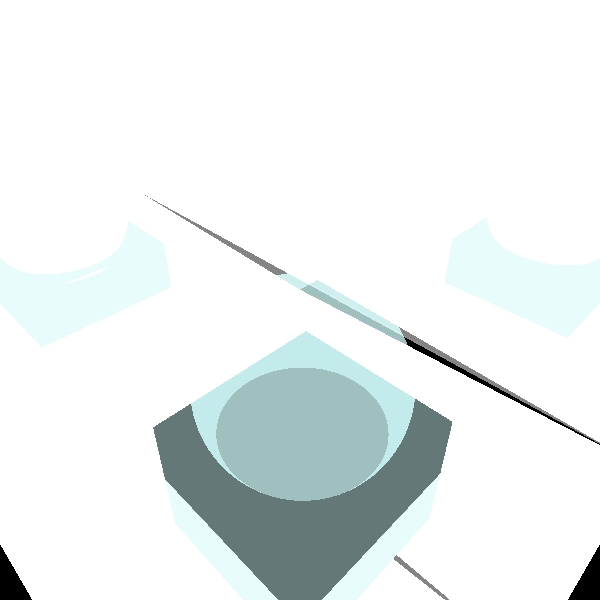
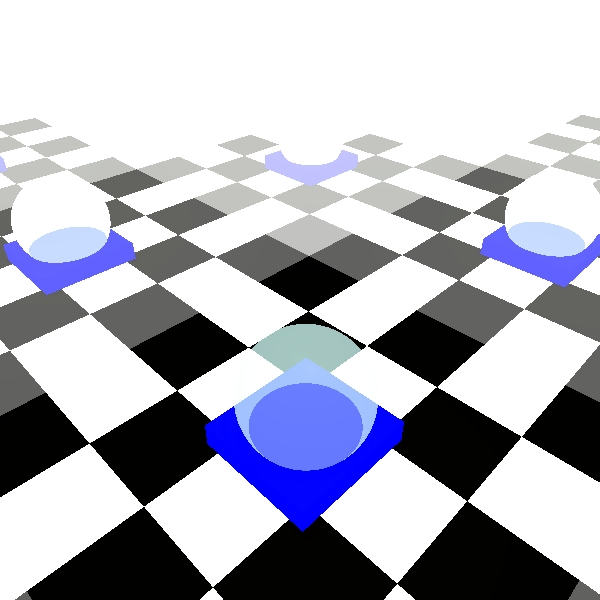
agrandir le cube exterieure x5 et linterirur x2

diff --git a/src/Private/Damier.java b/src/Private/Damier.java
@@ -4,84 +4,23 @@ import elements.Material;
 import geometries.Geometries;
 import geometries.Intersectable;
 import geometries.Polygon;
+import geometries.Triangle;
 import primitives.Color;
 import primitives.Point3D;
 import primitives.Ray;
-import primitives.Vector;
 
 import java.util.LinkedList;
 import java.util.List;
 
-public class Cube extends Geometries {
+public class Damier extends Geometries {
 
-    Polygon Polygon_bottom ;
-    Polygon Polygon_up ;
-    Polygon Polygon_down ;
-    Polygon Polygon_left_side ;
-    Polygon Polygon_right_side ;
-    Polygon Polygon_front ;
-    //List<Polygon> list = new LinkedList<Polygon>(); // bas du cube damier
+    List<Polygon> list = new LinkedList<Polygon>();
 
-    public Cube(Color emissionLight, Material material, Point3D position, double longueur, double hauteur, double profondeur)
+    public Damier( Material material, Point3D position, double longueur, double profondeur)
     {
         double x = position.get_x().get();
         double y = position.get_y().get();
         double z = position.get_z().get();
-
-
-        Polygon_bottom = new Polygon(
-                emissionLight,
-                material,
-                new Point3D(x, y, z+profondeur),
-                new Point3D(x+longueur, y, z+profondeur),
-                new Point3D(x+longueur, y+hauteur, z+profondeur),
-                new Point3D(x, y+hauteur, z+profondeur)
-        );
-        Polygon_front      = new Polygon(
-                emissionLight,
-                material,
-                new Point3D(x, y, z),
-                new Point3D(x+longueur, y, z),
-                new Point3D(x+longueur, y+hauteur, z),
-                new Point3D(x, y+hauteur, z)
-        );
-        Polygon_up         = new Polygon(
-                emissionLight,
-                material,
-                new Point3D( x,y+hauteur,z),
-                new Point3D(x+longueur, y+hauteur, z),
-                new Point3D(x+longueur, y+hauteur, z+profondeur),
-                new Point3D(x, y+hauteur, z+profondeur)
-
-
-        );
-        Polygon_down       = new Polygon(
-                emissionLight,
-                material,
-                new Point3D( x,y,z),
-                new Point3D(x+longueur, y, z),
-                new Point3D(x+longueur, y, z+profondeur),
-                new Point3D(x, y, z+profondeur)
-        );
-
-        Polygon_left_side  = new Polygon(
-                emissionLight,
-                material,
-                new Point3D(x, y, z),
-                new Point3D(x, y, z+profondeur),
-                new Point3D(x, y+hauteur, z+profondeur),
-                new Point3D(x, y+hauteur, z)
-        );
-
-        Polygon_right_side = new Polygon(
-                emissionLight,
-                material,
-                new Point3D(x+longueur, y, z),
-                new Point3D(x+longueur, y, z+profondeur),
-                new Point3D(x+longueur, y+hauteur, z+profondeur),
-                new Point3D(x+longueur, y+hauteur, z)
-        );
-/*
         double l_5=longueur/5;
         double p_5=profondeur/5;
 
@@ -117,40 +56,17 @@ public class Cube extends Geometries {
         list.add( new Polygon(new Color(java.awt.Color.BLACK),material,new Point3D(x +2*l_5,  y, z + 4* p_5 ) ,new Point3D(x +3*l_5,  y, z + 4* p_5 ) ,new Point3D(x +3*l_5,  y, z + 5* p_5 ) ,new Point3D(x +2*l_5,  y, z + 5* p_5 ) )) ;
         list.add( new Polygon(new Color(java.awt.Color.WHITE),material,new Point3D(x +3*l_5,  y, z + 4* p_5 ) ,new Point3D(x +4*l_5,  y, z + 4* p_5 ) ,new Point3D(x +4*l_5,  y, z + 5* p_5 ) ,new Point3D(x +3*l_5,  y, z + 5* p_5 ) )) ;
         list.add( new Polygon(new Color(java.awt.Color.BLACK),material,new Point3D(x +4*l_5,  y, z + 4* p_5 ) ,new Point3D(x +5*l_5,  y, z + 4* p_5 ) ,new Point3D(x +5*l_5,  y, z + 5* p_5 ) ,new Point3D(x +4*l_5,  y, z + 5* p_5 ) )) ;
-*/
 
     }
 
+    public List<Intersectable.GeoPoint> findIntersections(Ray ray, double MAXDISTANCE) {
 
-    public Vector getNormal(Point3D p) {
-        return null;
-    }
+        List<Intersectable.GeoPoint> intersections = new LinkedList<Intersectable.GeoPoint>();
 
-    public List<GeoPoint> findIntersections(Ray ray, double MAXDISTANCE) {
-
-        List<Intersectable.GeoPoint> intersections = new LinkedList<GeoPoint>();
-
-        List<GeoPoint> GeoPoint_Bottom = Polygon_bottom.findIntersections(ray,MAXDISTANCE);
-        if(GeoPoint_Bottom != null ) intersections.add(GeoPoint_Bottom.get(0));
-
-        List<GeoPoint> GeoPoint_front = Polygon_front.findIntersections(ray,MAXDISTANCE);
-        if(GeoPoint_front != null ) intersections.add(GeoPoint_front.get(0));
-
-        List<GeoPoint> GeoPoint_up= Polygon_up.findIntersections(ray,MAXDISTANCE);
-        if(GeoPoint_up != null ) intersections.add(GeoPoint_up.get(0));
-
-        List<GeoPoint> GeoPoint_down = Polygon_down.findIntersections(ray,MAXDISTANCE);
-        if(GeoPoint_down != null ) intersections.add(GeoPoint_down.get(0));
-        /*for (Polygon x :list
-        ) {
+        for (Polygon x :list
+             ) {
             List<GeoPoint> _geopoints = x.findIntersections(ray, MAXDISTANCE);
-            if(_geopoints != null )intersections.add(_geopoints.get(0)); }*/
-
-        List<GeoPoint> GeoPoint_left_side = Polygon_left_side.findIntersections(ray,MAXDISTANCE);
-        if(GeoPoint_left_side != null ) intersections.add(GeoPoint_left_side.get(0));
-
-        List<GeoPoint> GeoPoint_right_side = Polygon_right_side.findIntersections(ray,MAXDISTANCE);
-        if(GeoPoint_right_side != null ) intersections.add(GeoPoint_right_side.get(0));
+                if(_geopoints != null )intersections.add(_geopoints.get(0)); }
 
 
         return intersections;

diff --git a/unitTest/Private/Wolf_1Test.java b/unitTest/Private/Wolf_1Test.java
@@ -84,7 +84,7 @@ public class Wolf_1Test {
                         new Vector(0, 1, 0),
                         new Vector(1,0 ,0 )))*/
                 .addCamera(new Camera( // vue de haut gauche
-                         new Point3D(-500, 800, -520),
+                         new Point3D(-1499, 2400, -1559),
                          new Vector(1, -1, 1),
                          new Vector(sqrt(2)/2 ,sqrt(2) ,sqrt(2)/2  )))
                 .addDistance(180)
@@ -92,16 +92,18 @@ public class Wolf_1Test {
                 .build();
 
         scene.addGeometries( //
-                             new Sphere(new Color(100, 120, 120), new Material(0.5, 0.5, 30,0.6,0),200,
-                                        new Point3D(0, 112.7280955, -13.568478)),
+                             new Sphere(new Color(100, 120, 120), new Material(0.5, 0.5, 30,0.6,0),400,
+                                        new Point3D(0, 224.7280955, -13.568478)),
 
-                             new Cube(new Color(100, 120, 120), new Material(0, 0.8, 60),
-                                        new Point3D(-200, -160, -220), 400, 159.59,420),
+                            // cube du bas
+                             new Cube(new Color(java.awt.Color.BLUE), new Material(0.5, 0.5, 30),
+                                    new Point3D(-400, -160, -440), 800, 159.59, 840),
 
-                             new Cube(new Color(132, 132, 132), new Material(0.5, 0.5, 30,0,1),
-                                      new Point3D(-500, -160, -520), 1000, 1000,1040)
+                             new Cube(new Color(96, 96, 96), new Material(0.5, 0.5, 30,0,1),
+                                      new Point3D(-1500, -160, -1560), 3000, 3000,3120),
 
-
+                             new Damier(new Material(0.5, 0.5, 30),
+                                new Point3D(-1500, -159.9999, -1560), 3000,3120)
                              /*new Wolf_1(
                                   new Color(Color.BLACK),
                                  new Material(0.5, 0.5, 30),new Point3D(0,0,0),1)*/
@@ -111,10 +113,15 @@ public class Wolf_1Test {
 
         );
 
-        scene.addLights(new SpotLight(new Color(700, 400, 400),
-                                      new Point3D(0, -250, 50),
-                                      new Vector(0.5, 1, 0),
-                                      1, 4E-4, 2E-5));
+        scene.addLights(new SpotLight(new Color(400,240,0),
+                                      new Point3D(-500, 2700, 0),
+                                      new Vector(500, -2588, -13),
+                                      1, 0.00004, 0.00001));
+
+        scene.addLights(new SpotLight(new Color(java.awt.Color.GREEN),
+                                      new Point3D(500, 2700, 0),
+                                      new Vector(-500, -2588, -13),
+                                      1, 0.00004, 0.00001));
 
 
 

diff --git a/unitTest/Private/DamierTest.java b/unitTest/Private/DamierTest.java
@@ -1,0 +1,63 @@
+package Private;
+
+import elements.AmbientLight;
+import elements.Camera;
+import elements.Material;
+import elements.SpotLight;
+import geometries.Sphere;
+import org.junit.Test;
+import primitives.Color;
+import primitives.Point3D;
+import primitives.Vector;
+import renderer.ImageWriter;
+import renderer.Render;
+import scene.Scene;
+
+import static org.junit.Assert.*;
+
+public class DamierTest {
+
+    @Test
+    public void findIntersections() {
+    }
+
+    @Test
+    public void test1_10() {
+        Scene scene;
+        scene = new Scene.SceneBuilder("Test scene")
+                .addAmbientLight(new AmbientLight(Color.BLACK, 0))
+                .addCamera(new Camera(
+                        new Point3D(0, 3000, 0),
+                        new Vector(0, -1, 0),
+                        new Vector(1, 0, 0)))
+                .addDistance(150)
+                .addBackground(Color.BLACK)
+                .build();
+
+        scene.addGeometries( //
+              /*  new Triangle(Color.BLACK, new Material(0, 0.8, 60), //
+                        new Point3D(-150, 150, 115), new Point3D(150, 150, 135), new Point3D(75, -75, 150)), //
+                new Triangle(Color.BLACK, new Material(0, 0.8, 60), //
+                        new Point3D(-150, 150, 115), new Point3D(-70, -70, 140), new Point3D(75, -75, 150)), */ //
+                             new Damier(new Material(0.5, 0.5, 30,0,1),
+                                        new Point3D(-1500, -159, -1560), 3000,3120)
+                             );
+
+
+
+        scene.addLights(new SpotLight(new Color(700, 400, 400), //
+                                      new Point3D(40, -40, -115), new Vector(-1, 1, 4), 1, 4E-4, 2E-5));
+
+        scene.addLights(new SpotLight(new Color(700, 400, 400), //
+                                      new Point3D(35, -40, 175), new Vector(0, 1, 0), 1, 4E-4, 2E-5));
+
+        // scene.addLights(new SpotLight(new Color(700, 400, 400), //
+        //         new Point3D(-50, 0, 150), new Vector(0, 1, 0), 1, 4E-4, 2E-5));
+
+        ImageWriter imageWriter = new ImageWriter("test1.10", 200, 200, 600, 600);
+        Render render = new Render(imageWriter, scene);
+
+        render.renderImage();
+        render.writeToImage();
+    }
+}

diff --git a/src/Private/Wolf_1.java b/src/Private/Wolf_1.java
@@ -3,6 +3,7 @@ package Private;
 import elements.Material;
 import geometries.Geometries;
 import geometries.Intersectable;
+import geometries.Polygon;
 import geometries.Triangle;
 import primitives.Color;
 import primitives.Point3D;
@@ -727,10 +728,14 @@ public class Wolf_1 extends Geometries {
 
         List<Intersectable.GeoPoint> intersections = new LinkedList<Intersectable.GeoPoint>();
 
-        for (Triangle t : list) {
+        /*for (Triangle t : list) {
             if (t.findIntersections(ray, MAXDISTANCE) != null)
                 intersections.add(t.findIntersections(ray, MAXDISTANCE).get(0));
-        }
+        }*/
+        for (Triangle x :list
+        ) {
+            List<GeoPoint> _geopoints = x.findIntersections(ray, MAXDISTANCE);
+            if(_geopoints != null )intersections.add(_geopoints.get(0)); }
 
         return intersections;
     }

diff --git a/src/Private/Tree_2.java b/src/Private/Tree_2.java
@@ -276,10 +276,14 @@ public class Tree_2 extends Geometries {
 
         List<Intersectable.GeoPoint> intersections = new LinkedList<Intersectable.GeoPoint>();
 
-        for (Triangle t : list) {
-            if( t.findIntersections(ray, MAXDISTANCE)!=null)
+        /*for (Triangle t : list) {
+            if (t.findIntersections(ray, MAXDISTANCE) != null)
                 intersections.add(t.findIntersections(ray, MAXDISTANCE).get(0));
-        }
+        }*/
+        for (Triangle x :list
+        ) {
+            List<GeoPoint> _geopoints = x.findIntersections(ray, MAXDISTANCE);
+            if(_geopoints != null )intersections.add(_geopoints.get(0)); }
 
         return intersections;
     }

diff --git a/src/Private/Wolf_2.java b/src/Private/Wolf_2.java
@@ -591,10 +591,14 @@ public class Wolf_2 extends Geometries {
 
         List<Intersectable.GeoPoint> intersections = new LinkedList<Intersectable.GeoPoint>();
 
-        for (Triangle t : list) {
-            if( t.findIntersections(ray, MAXDISTANCE)!=null)
+        /*for (Triangle t : list) {
+            if (t.findIntersections(ray, MAXDISTANCE) != null)
                 intersections.add(t.findIntersections(ray, MAXDISTANCE).get(0));
-        }
+        }*/
+        for (Triangle x :list
+        ) {
+            List<GeoPoint> _geopoints = x.findIntersections(ray, MAXDISTANCE);
+            if(_geopoints != null )intersections.add(_geopoints.get(0)); }
 
         return intersections;
     }

diff --git a/src/Private/Wolf_3.java b/src/Private/Wolf_3.java
@@ -682,10 +682,14 @@ public class Wolf_3 extends Geometries {
 
         List<Intersectable.GeoPoint> intersections = new LinkedList<Intersectable.GeoPoint>();
 
-        for (Triangle t : list) {
+       /*for (Triangle t : list) {
             if (t.findIntersections(ray, MAXDISTANCE) != null)
                 intersections.add(t.findIntersections(ray, MAXDISTANCE).get(0));
-        }
+        }*/
+        for (Triangle x :list
+        ) {
+            List<GeoPoint> _geopoints = x.findIntersections(ray, MAXDISTANCE);
+            if(_geopoints != null )intersections.add(_geopoints.get(0)); }
 
         return intersections;
     }

diff --git a/src/Private/Tree.java b/src/Private/Tree.java
@@ -251,10 +251,14 @@ public class Tree extends Geometries {
 
         List<Intersectable.GeoPoint> intersections = new LinkedList<Intersectable.GeoPoint>();
 
-        for (Triangle t : list) {
+       /*for (Triangle t : list) {
             if (t.findIntersections(ray, MAXDISTANCE) != null)
                 intersections.add(t.findIntersections(ray, MAXDISTANCE).get(0));
-        }
+        }*/
+        for (Triangle x :list
+        ) {
+            List<GeoPoint> _geopoints = x.findIntersections(ray, MAXDISTANCE);
+            if(_geopoints != null )intersections.add(_geopoints.get(0)); }
 
         return intersections;
     }
